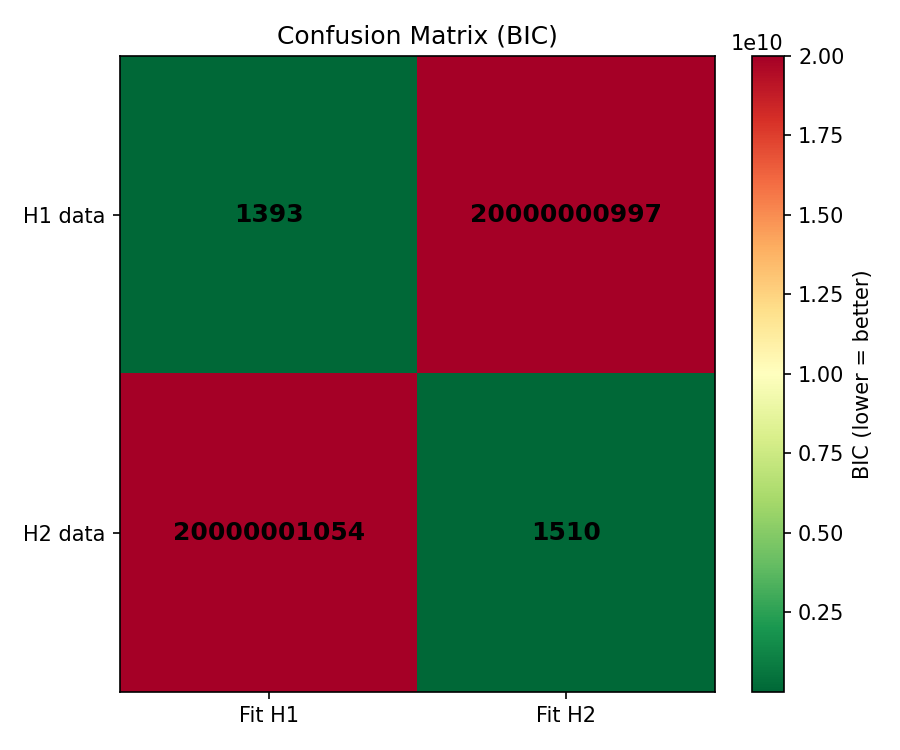
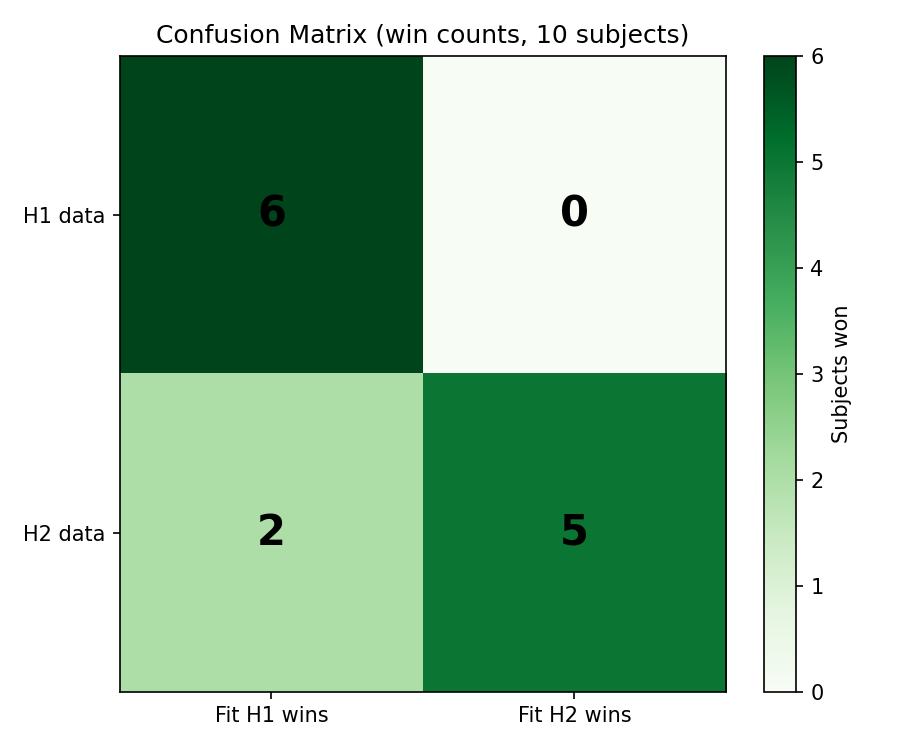
Use green/magenta for H1/H2 comparison plots to avoid confusion with bandit colors; update confusion matrix to 10-subject win counts

diff --git a/reversal_locked_plots.py b/reversal_locked_plots.py
@@ -109,7 +109,7 @@ def plot_reversal_locked(groups: dict,
         Maps group label -> list of simulation output dicts.
     """
     fig, (ax_acc, ax_rt) = plt.subplots(2, 1, figsize=(10, 8))
-    colors = ["#0072B2", "#D55E00", "#009E73", "#CC79A7"]
+    colors = ["#009E73", "#CC79A7", "#E69F00", "#56B4E9"]
 
     for i, (label, subjects) in enumerate(groups.items()):
         agg = aggregate_reversal_locked(subjects, reversal_points, window)
